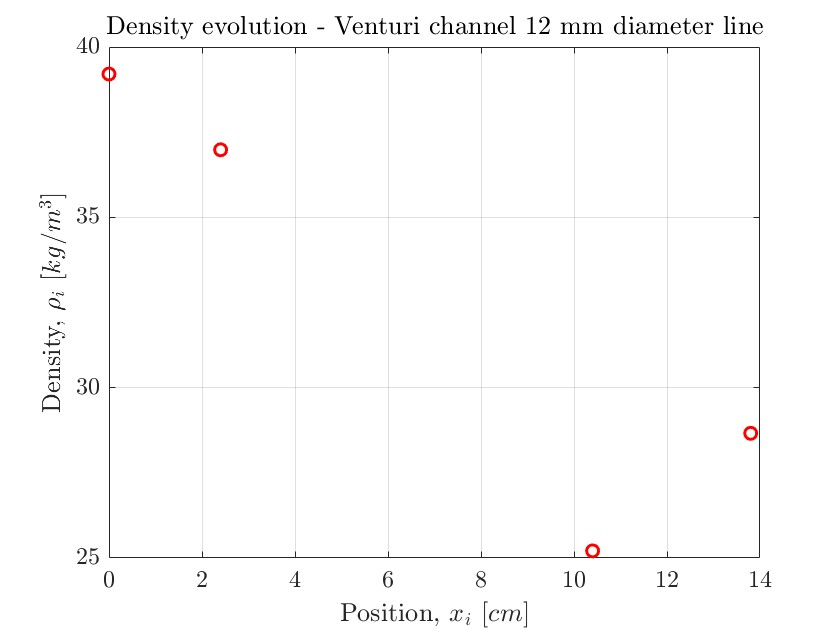
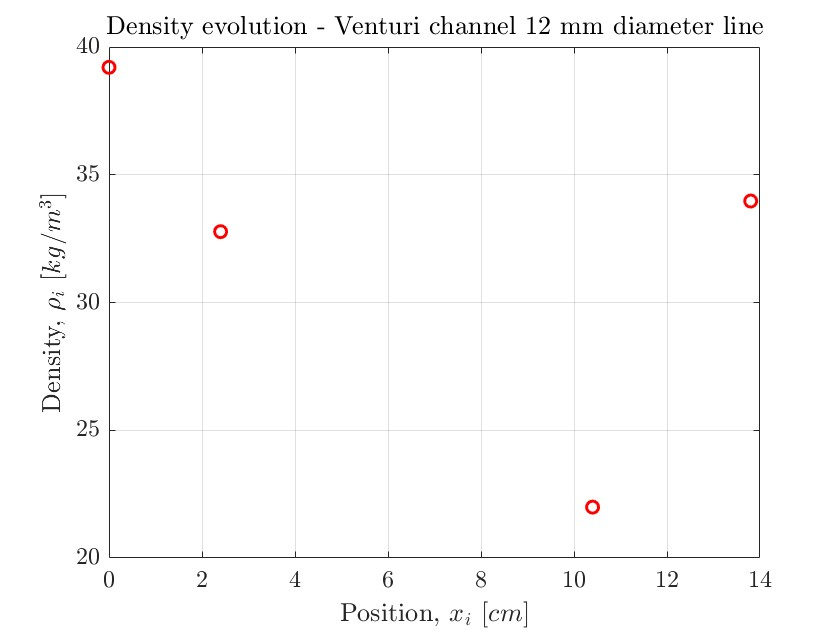
sdgfadgasdg

diff --git a/main line piping/Perdite_di_carico_12mm_Venturi.m b/main line piping/Perdite_di_carico_12mm_Venturi.m
@@ -20,7 +20,7 @@ eps = 0.015*1e-3;                    % Absolute roughness of stainless steel [m]
 eps_rel = eps/d_p_int;               % Relative roughness of stainless steel [-]
 
 T1 = 298;                                       % Temperature downstream the pressure regulator [K]
-P_reg = 48;                                     % Pressure downstream the pressure regulator [bar]
+P_reg = 40;                                     % Pressure downstream the pressure regulator [bar]
 
 T = (floor(T1)-3):0.5:(ceil(T1));
 P = (floor(P_reg)-10):0.1:(ceil(P_reg));
@@ -245,7 +245,8 @@ end
 clear gamma6_new
 
 %% Before Venturi channel (point 6) and after Venturi channel (point 7)
-d_throat = 6*1e-3;
+
+d_throat = 5*1e-3;
 A_throat = 0.25*pi*d_throat^2;
 
 T_tot = T6*(1 + ((gamma6 - 1)/2)*M6^2);
@@ -285,7 +286,7 @@ if Re6_1 < 2300
 
 end
 
-L_throat = 0.08;
+M6_2 = 1;
 iter = 0;
 err = 1;
 
@@ -294,10 +295,7 @@ while err > 1e-3
     iter = iter + 1;
 
     g_M6_1 = (1 - M6_1^2)/(gamma6_1*M6_1^2) + ((gamma6_1 + 1)/(2*gamma6_1))*log(((gamma6_1 + 1)*M6_1^2)/(2 + (gamma6_1 - 1)*M6_1^2) );
-    g_M6_2 = g_M6_1 - (lambda/d_throat)*L_throat;
-
-    y = @(x) g_M6_2 - (1 - x^2)/(gamma6_2*x^2) + ((gamma6_2 + 1)/(2*gamma6_2))*log(((gamma6_2 + 1)*x^2)/(2 + (gamma6_2 - 1)*x^2) );
-    M6_2 = fsolve(y,0.6);
+    L_throat = 1000*(g_M6_1*d_throat)/lambda;
 
     T_star = T6_1/(0.5*(gamma6_1 + 1)/(1 + (gamma6_1 - 1)*0.5*M6_1^2));
     T6_2 = T_star*(0.5*(gamma6_2 + 1)/(1 + (gamma6_2 - 1)*0.5*M6_2^2));
@@ -564,7 +562,7 @@ clear gamma11_new
 P12 = 1;
 delta_P_inj = (P11 - P12)*1e5;
 
-N_inj = [15 20 25 30 35 40 45 50 55 60];
+N_inj = 1;
 C_d = 0.65;                              % Sharp-edged orifice with diameter smaller than 2.5 mm
 A_needed = m_dot_N2/(C_d*sqrt(2*delta_P_inj*rho11));
 A_inj = A_needed./N_inj;

diff --git a/venturi channel/Venturi_channel_setAreaThroat.m b/venturi channel/Venturi_channel_setAreaThroat.m
@@ -14,7 +14,7 @@ d_ext = 12*1e-3;
 t = 1.5*1e-3;                        % Thickness of the tube  [m]
 d1 = d_ext - 2*t;
 A1 = 0.25*pi*d1^2;
-d2 = 6*1e-3;
+d2 = 5*1e-3;
 A2 = 0.25*pi*d2^2;
 m_dot_N2 = 140*1e-3;            % [g/s]
 P1 = 34;                        % [bar]
@@ -88,7 +88,7 @@ end
 
 %%
 
-L = 0.08;
+M3 = 1;
 iter = 0;
 err = 1;
 
@@ -97,10 +97,7 @@ while err > 1e-3
     iter = iter + 1;
 
     g_M2 = (1 - M2^2)/(gamma2*M2^2) + ((gamma2 + 1)/(2*gamma2))*log(((gamma2 + 1)*M2^2)/(2 + (gamma2 - 1)*M2^2) );
-    g_M3 = g_M2 - (lambda/d2)*L;
-
-    y = @(x) g_M3 - (1 - x^2)/(gamma3*x^2) + ((gamma3 + 1)/(2*gamma3))*log(((gamma3 + 1)*x^2)/(2 + (gamma3 - 1)*x^2) );
-    M3 = fsolve(y,0.6);
+    L = 1000*(g_M2*d2)/lambda;        % [mm]
 
     T_star = T2/(0.5*(gamma2 + 1)/(1 + (gamma2 - 1)*0.5*M2^2));
     T3 = T_star*(0.5*(gamma3 + 1)/(1 + (gamma3 - 1)*0.5*M3^2));

diff --git a/main line piping/Perdite_di_carico_3quarters_inch_Venturi.m b/main line piping/Perdite_di_carico_3quarters_inch_Venturi.m
@@ -284,7 +284,7 @@ if Re6_1 < 2300
 
 end
 
-L_throat = 0.08;
+M6_2 = 1;
 iter = 0;
 err = 1;
 
@@ -293,10 +293,7 @@ while err > 1e-3
     iter = iter + 1;
 
     g_M6_1 = (1 - M6_1^2)/(gamma6_1*M6_1^2) + ((gamma6_1 + 1)/(2*gamma6_1))*log(((gamma6_1 + 1)*M6_1^2)/(2 + (gamma6_1 - 1)*M6_1^2) );
-    g_M6_2 = g_M6_1 - (lambda/d_throat)*L_throat;
-
-    y = @(x) g_M6_2 - (1 - x^2)/(gamma6_2*x^2) + ((gamma6_2 + 1)/(2*gamma6_2))*log(((gamma6_2 + 1)*x^2)/(2 + (gamma6_2 - 1)*x^2) );
-    M6_2 = fsolve(y,0.6);
+    L_throat = 1000*(g_M6_1*d_throat)/lambda; 
 
     T_star = T6_1/(0.5*(gamma6_1 + 1)/(1 + (gamma6_1 - 1)*0.5*M6_1^2));
     T6_2 = T_star*(0.5*(gamma6_2 + 1)/(1 + (gamma6_2 - 1)*0.5*M6_2^2));
